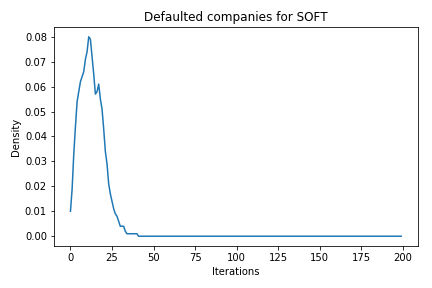
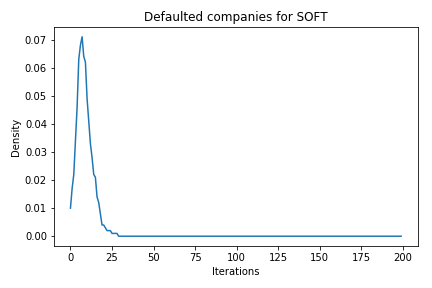
modification SecNet
mistake on should_stop modified

diff --git a/plots_sis.py b/plots_sis.py
@@ -114,7 +114,7 @@ def density_plot(g:DiGraph,
                   iterations = 200,
                   file_plot= 'images/density/density_by_policy'):
     
-        for policy in ['SOFT','RANDOM','NONE']:
+        for policy in ['SOFT','RANDOM']:
             for default_delay in [2,4,6,8]:
                 if policy == 'NONE':
                     sn = SecNet(g, mu = mu, beta =beta, 
@@ -133,7 +133,7 @@ def density_plot(g:DiGraph,
                                 reconnection_policy = ReconnectionPolicy.STRONG, 
                                 default_delay = default_delay , weight_transfer = False)
                 file  =  file_plot + policy + str(default_delay)+'.png'
-                sn.run(iterations)    
+                sn.run(iterations, variation_coeff = 10e-5)    
                 sn.plot('Defaulted companies for %s' %policy,
                         save = True ,
                         file_name =  file)

diff --git a/to_do_plots.py b/to_do_plots.py
@@ -1,4 +1,5 @@
 import pickle
+import numpy as np
 from SecNet import SecNet, ReconnectionPolicy
 from plots_sis import beta_plot, density_plot
 
@@ -10,11 +11,17 @@ g = pickle.load(open('graphs/new.pickle', 'rb'))
 #beta_plot(g,  mu = 0.2 , iterations = 75, policy = 'RANDOM',default_delay=2)
 #beta_plot(g,  mu = 0.2 , iterations = 75, policy = 'RANDOM',default_delay=4)
 #beta_plot(g,  mu = 0.2 , iterations = 75, policy = 'RANDOM',default_delay=8)
-
+'''
 density_plot(g, 
              mu = 0.2, 
              beta = 0.6,
              iterations = 200)
          
-
-
+'''
+sn = SecNet(g, mu = 0.2, beta = 0.6, 
+                                reconnection_policy = ReconnectionPolicy.RANDOM, 
+                                default_delay = 2  , weight_transfer = False)
+sn.run(150,variation_coeff = 10e-5)
+print(sn.defaulted_density)
+print(np.mean(sn.defaulted_density[-10:]))
+sn.plot()

diff --git a/SecNet.py b/SecNet.py
@@ -254,7 +254,7 @@ class SecNet:
         std_defaulted_densities = np.std(defaulted_densities)
 
         # Check if the defaulted densities tend to 0
-        if mean_defaulted_densities < 10e-3 or std_defaulted_densities < 10e-4:
+        if mean_defaulted_densities < 10e-3 and std_defaulted_densities < 10e-4:
             return True
 
         var_coeff = std_defaulted_densities / mean_defaulted_densities
